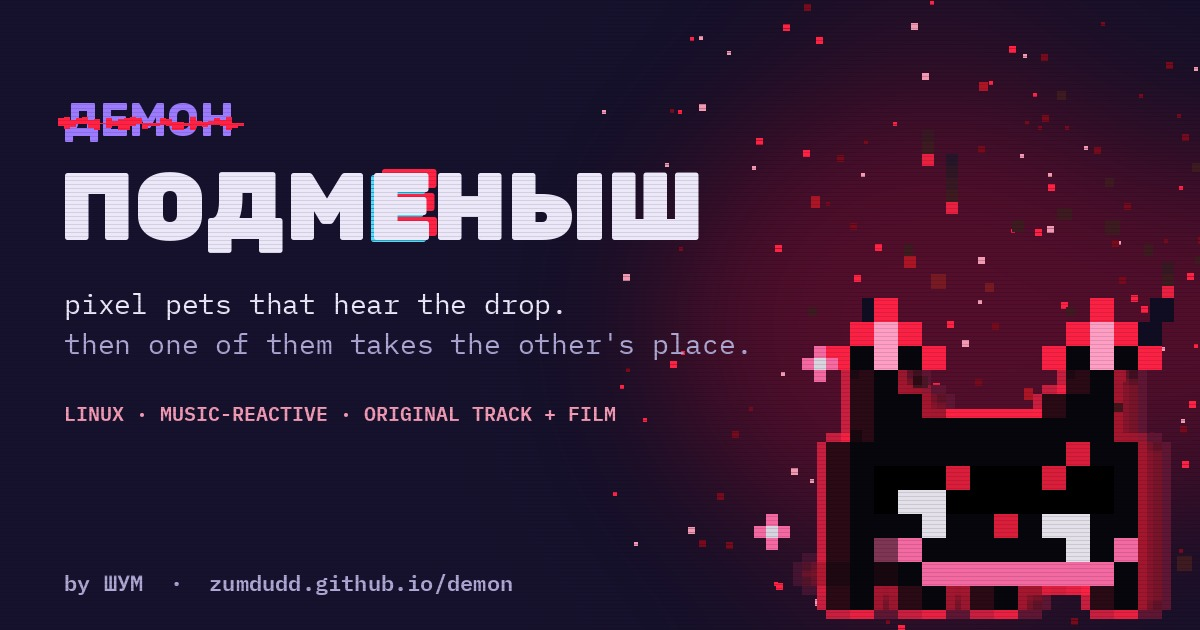
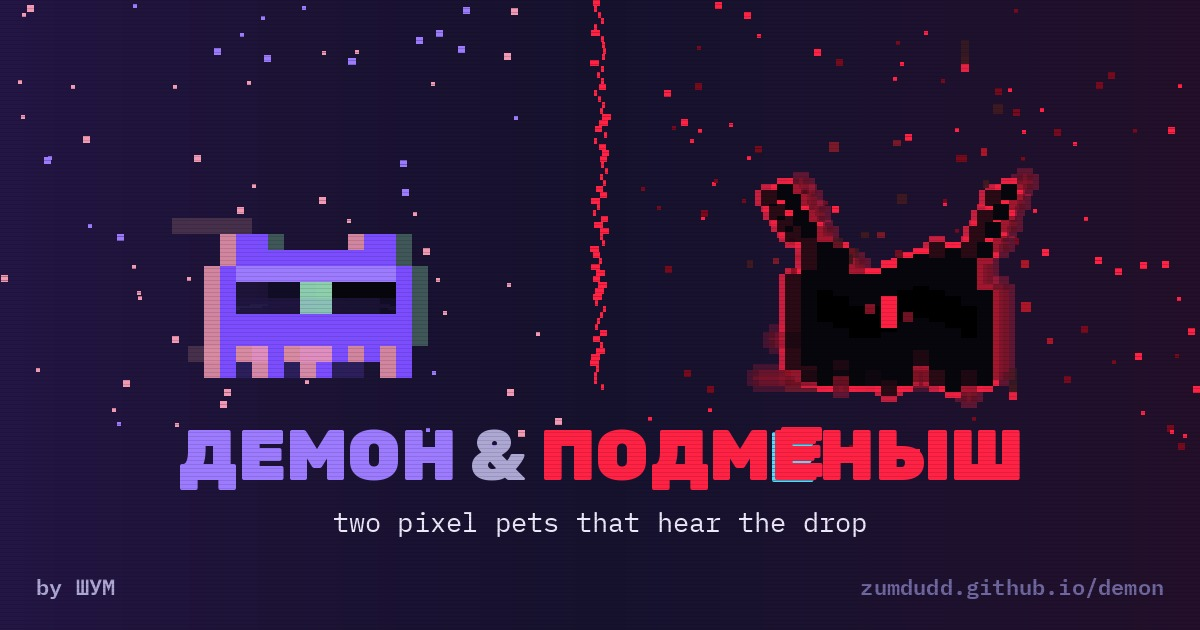
Preview card: face-off (v3)

diff --git a/docs/index.html b/docs/index.html
@@ -7,7 +7,7 @@
 <meta name="description" content="Two pixel-art desktop pets that listen to music. ДЕМОН dances to it. ПОДМЕНЫШ, the changeling, takes his place and explodes on the drop. By ШУМ (shum).">
 <meta property="og:title" content="ДЕМОН & ПОДМЕНЫШ · by ШУМ">
 <meta property="og:description" content="Two pixel pets that hear your music. ДЕМОН dances to it. ПОДМЕНЫШ, the changeling, takes his place and explodes on the drop.">
-<meta property="og:image" content="https://zumdudd.github.io/demon/assets/img/card-v2.jpg">
+<meta property="og:image" content="https://zumdudd.github.io/demon/assets/img/card-v3.jpg">
 <meta property="og:image:width" content="1200">
 <meta property="og:image:height" content="630">
 <meta property="og:type" content="website">
